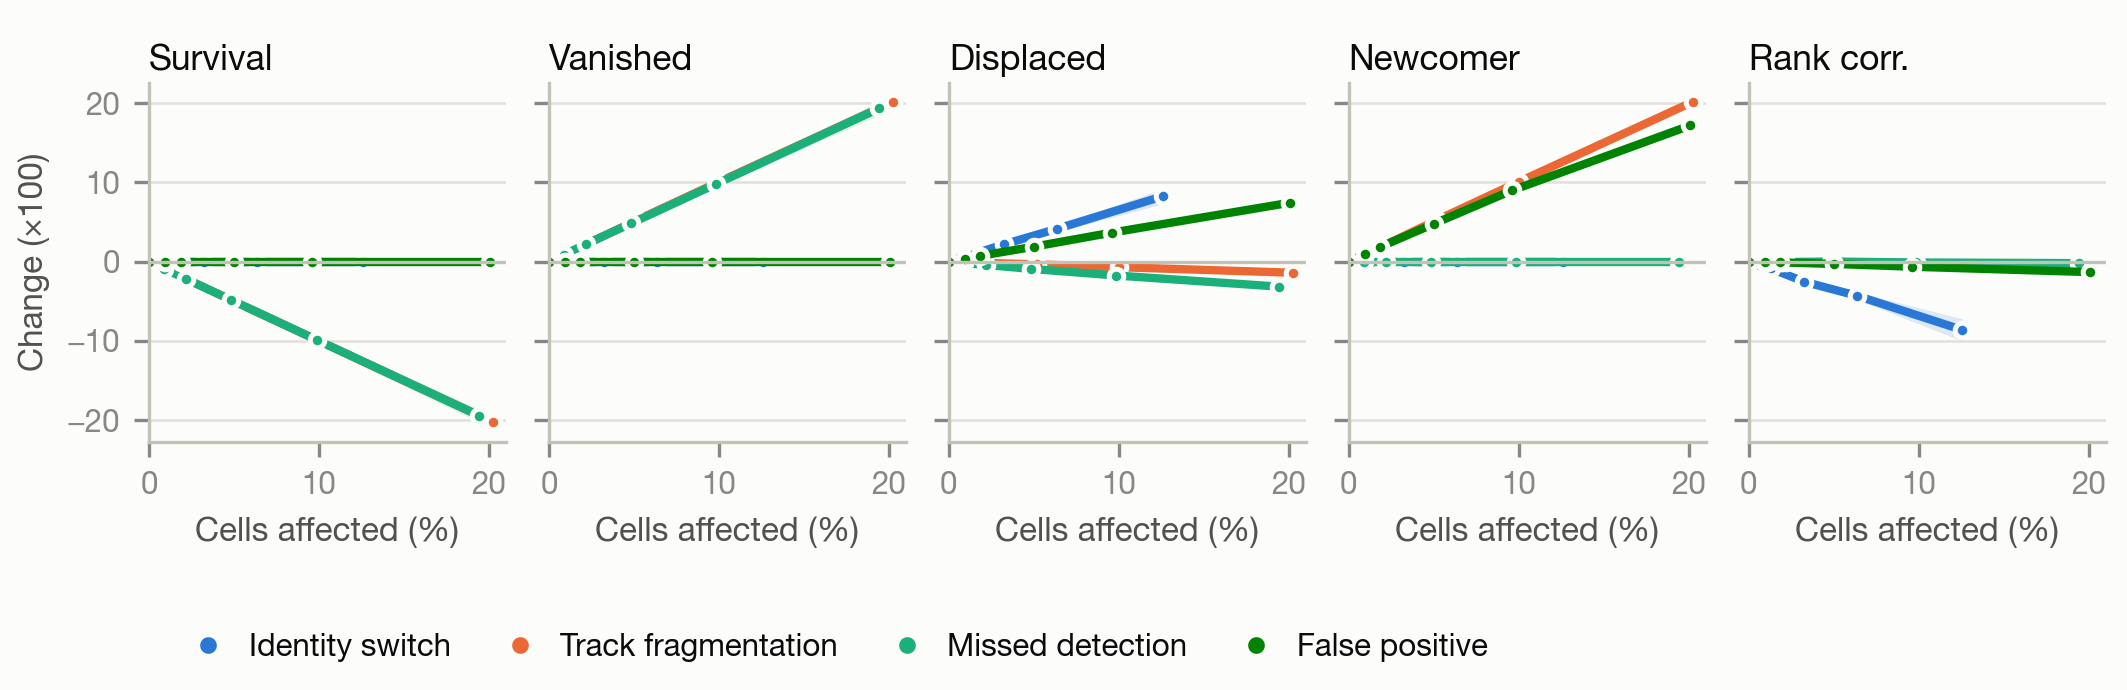
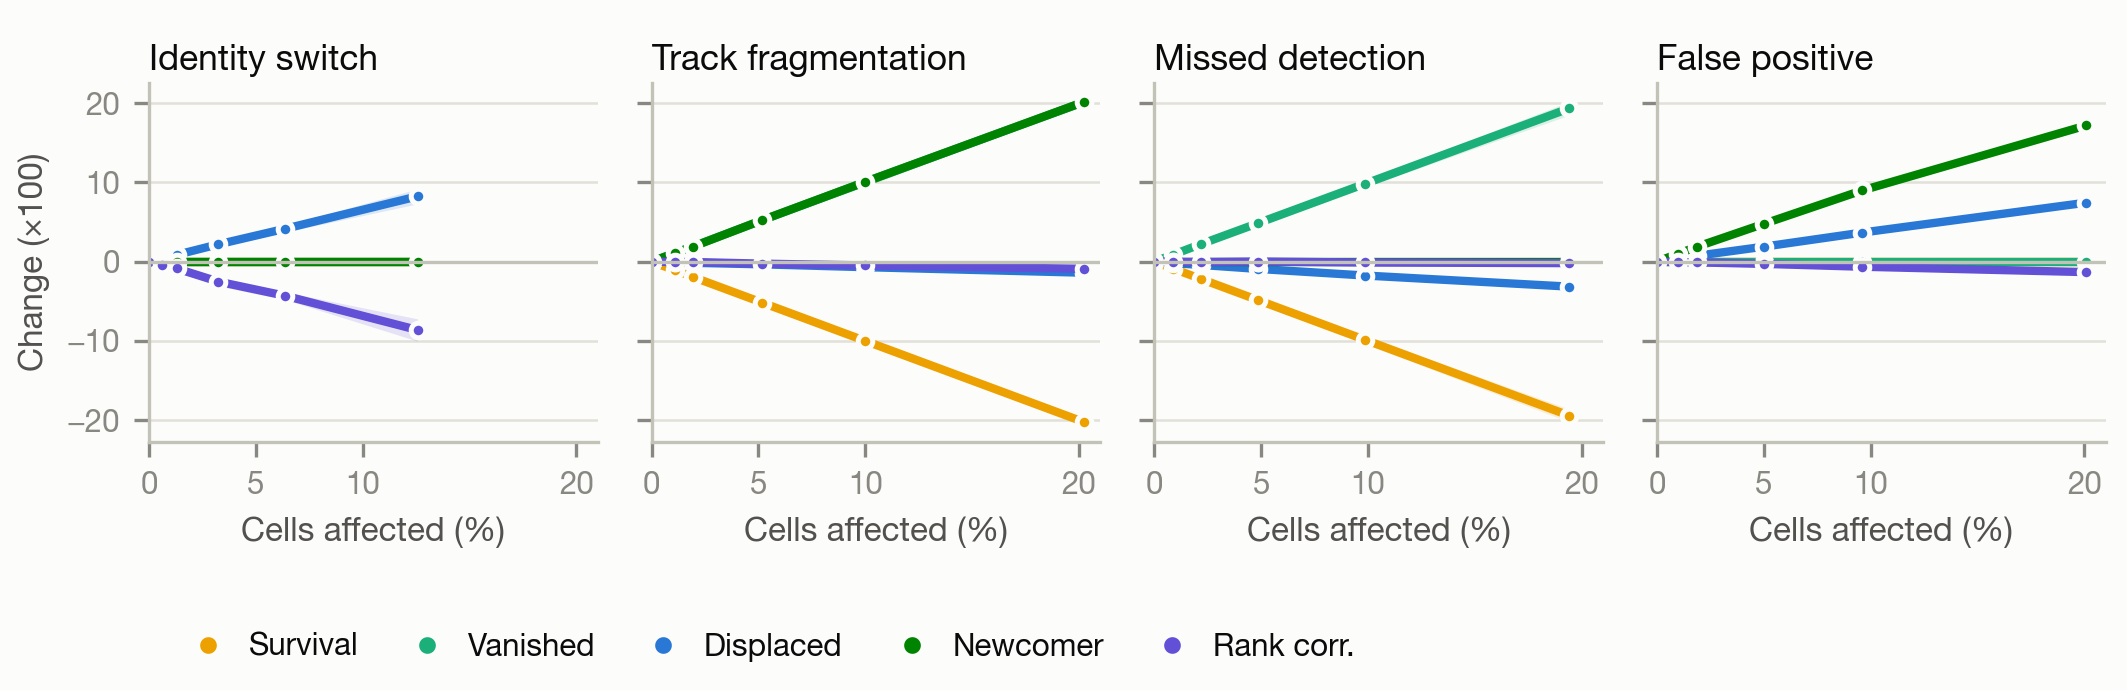
Figure 1 calibration: one panel per error type, one line per channel (channel colours match panel a)

diff --git a/scripts/make_fig1.py b/scripts/make_fig1.py
@@ -211,23 +211,26 @@ def c_calibration():
         return
     sim = df[df.src == "sim"].copy()
     sim["d_survival"] = sim.survival - 1.0
-    fig, axes = plt.subplots(1, len(COMPS), figsize=(fs.DOUBLE, 2.3), sharey=True,
+    # channel colours: vanished / displaced / newcomer match panel a; survival and rank corr. added
+    ch_col = {"d_survival": "#eda100", "d_vanished": FATE["vanished"], "d_displaced": FATE["displaced"],
+              "d_newcomer": FATE["newcomer"], "d_rc": "#6250d6"}
+    fig, axes = plt.subplots(1, 4, figsize=(fs.DOUBLE, 2.3), sharey=True,
                              gridspec_kw=dict(left=0.07, right=0.99, top=0.88, bottom=0.36, wspace=0.12))
-    for ax, (col, name) in zip(axes, COMPS):
-        for t in fs.ORDER4:
-            g = sim[sim.error == t]
+    for ax, t in zip(axes, fs.ORDER4):
+        g = sim[sim.error == t]
+        for col, name in COMPS:
             pp = g.groupby(["source", "pair", "rate"]).agg(x=("rate_realised", "mean"), y=(col, "mean")).reset_index()
             a = pp.groupby("rate").agg(x=("x", "mean"), y=("y", "mean"), sd=("y", "std"), n=("y", "size"))
             ci = 1.96 * a.sd / np.sqrt(a.n)
             x, y = np.r_[0, 100 * a.x], np.r_[0, 100 * a.y]
-            ax.fill_between(x, y - np.r_[0, 100 * ci], y + np.r_[0, 100 * ci], color=fs.SERIES[t], alpha=0.15, lw=0)
-            ax.plot(x, y, color=fs.SERIES[t], **fs.LINE, **{**fs.MARK, "ms": 3.5})
+            ax.fill_between(x, y - np.r_[0, 100 * ci], y + np.r_[0, 100 * ci], color=ch_col[col], alpha=0.15, lw=0)
+            ax.plot(x, y, color=ch_col[col], **fs.LINE, **{**fs.MARK, "ms": 3.5})
         ax.axhline(0, color=fs.AXIS, lw=0.8)
-        ax.set_title(name, loc="left", pad=3); fs.grid(ax)
-        ax.set_xlim(0, 21); ax.set_xticks([0, 10, 20]); ax.set_xlabel("Cells affected (%)")
+        ax.set_title(fs.LABELS[t], loc="left", pad=3); fs.grid(ax)
+        ax.set_xlim(0, 21); ax.set_xticks([0, 5, 10, 20]); ax.set_xlabel("Cells affected (%)")
     axes[0].set_ylabel("Change (×100)")
-    fig.legend(handles=[fs.dot_handle(fs.LABELS[t], fs.SERIES[t]) for t in fs.ORDER4], loc="lower left",
-               bbox_to_anchor=(0.07, 0.0), ncol=4, handletextpad=0.3, columnspacing=1.2)
+    fig.legend(handles=[fs.dot_handle(name, ch_col[col]) for col, name in COMPS], loc="lower left",
+               bbox_to_anchor=(0.07, 0.0), ncol=5, handletextpad=0.3, columnspacing=1.2)
     fs.save(fig, OUT / "c_calibration")
 
 
